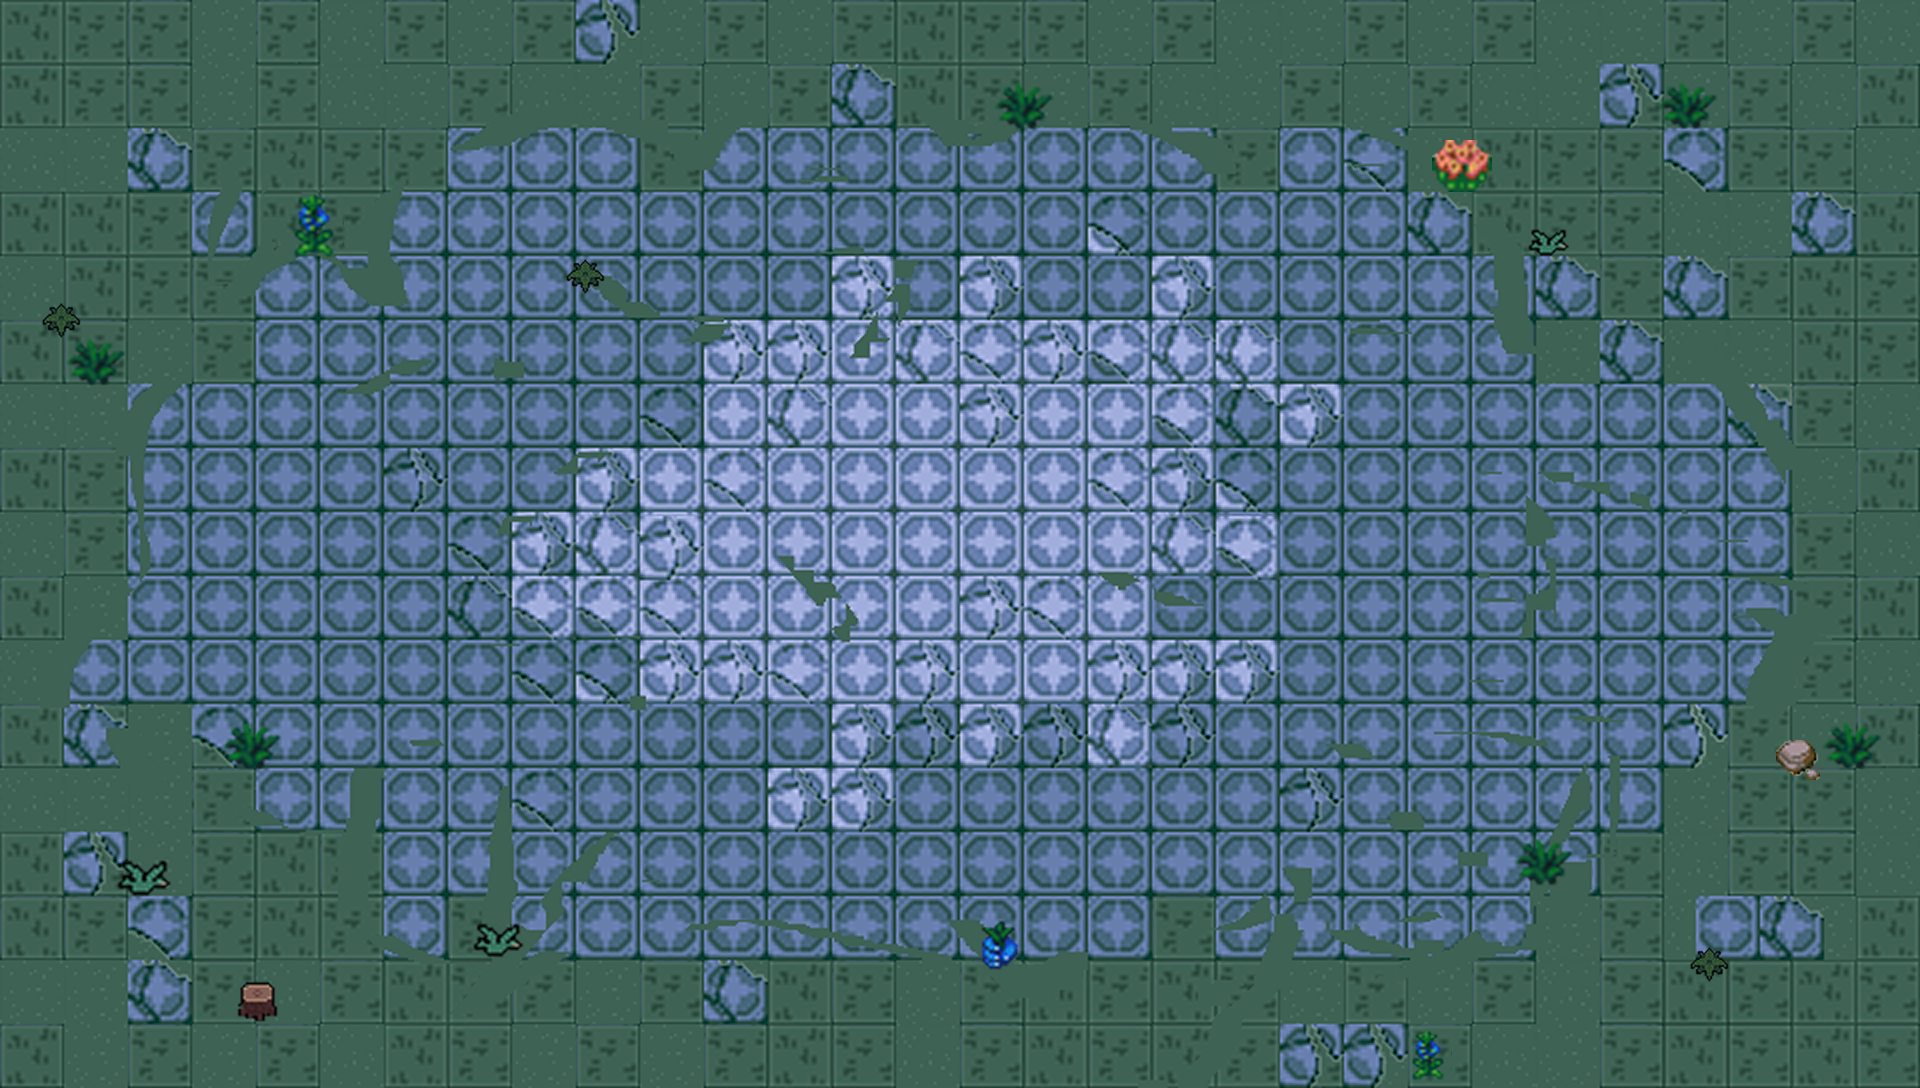
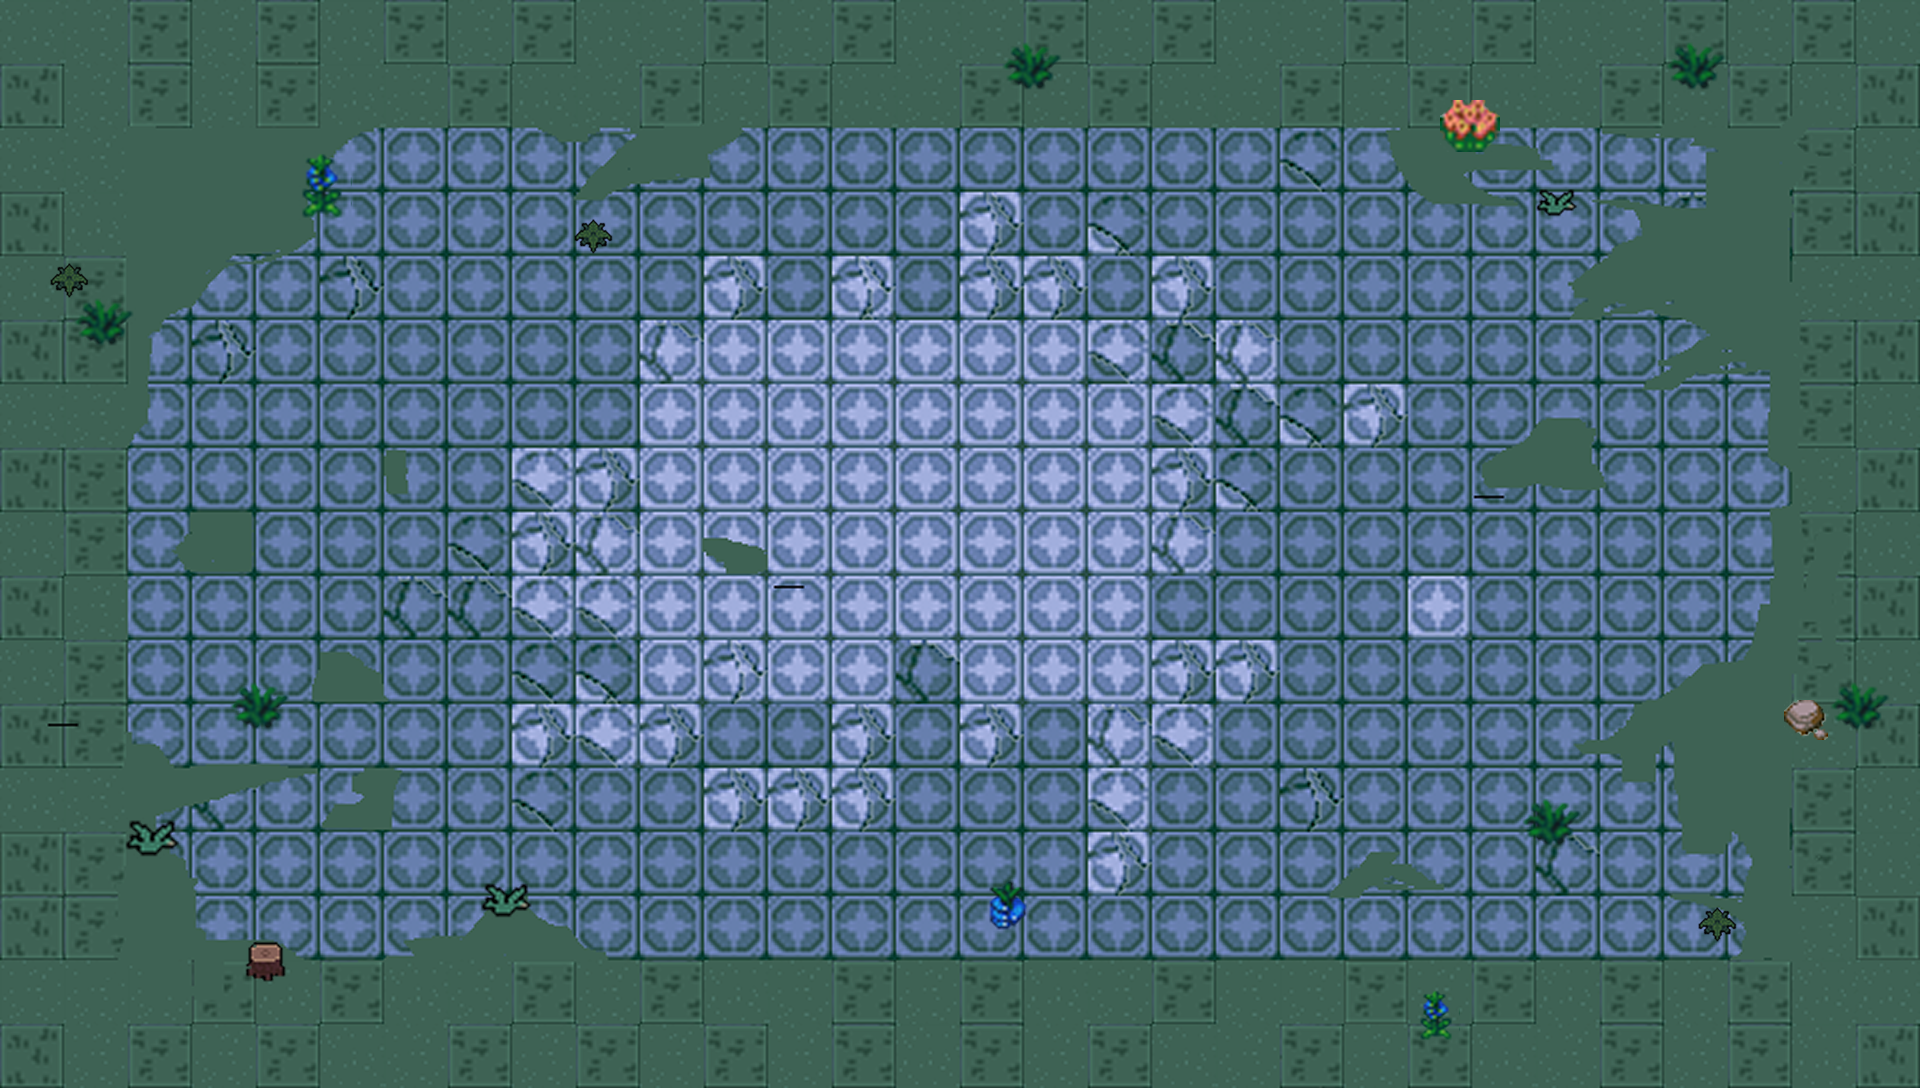
update

diff --git a/docs/Function.js b/docs/Function.js
@@ -6,8 +6,10 @@ let deathAnimations = []; // 追踪所有正在播放的死亡动画
 function handleGameplay(now) {
   if(wave<=5){
     image(level1map,0,0,1062,600);
-  } else if (wave>5 && wave <=10){
+  } else if (wave>5 && wave <= 10){
     image(level2map,0,0,1062,600);
+  } else if (wave>10 && wave <= 15){
+    image(level3map,0,0,1062,600);
   }
 
   // 玩家相关操作
@@ -50,7 +52,7 @@ function handleGameplay(now) {
     
     // 检查是否为已击败的Boss(包括BugBoss)
     if ((enemy.isBoss || enemy instanceof BugBoss) && enemy.health <= 0) {
-      bossesDefeated++;
+      bossDefeated++;
       enemies.splice(j, 1);
       bossActive = false; // 确保重置bossActive状态
       
@@ -290,10 +292,12 @@ function initButtons() {
 
   mainMenuButtons = [
     new Button(width / 2 - 75, baseY - 50, 150, 40, "Resume Game", () => {
+      buttonsound.play();
       loadSavedGame();
       gameState = "game"; // 从暂停改为直接进入游戏
     }),
     new Button(width / 2 - 75, baseY, 150, 40, "Start Game(easy)", () => {
+      buttonsound.play();
       savedGame = null;
       wave = 1; // 重置波数
       normalEnemiesDefeated = 0; // 重置击杀数
@@ -302,6 +306,7 @@ function initButtons() {
       difficult = "easy";
     }),
     new Button(width / 2 - 75, baseY + 50, 150, 40, "Start Game(hard)", () => {
+      buttonsound.play();
       savedGame = null;
       wave = 1; // 重置波数
       normalEnemiesDefeated = 0; // 重置击杀数
@@ -310,33 +315,40 @@ function initButtons() {
       difficult = "hard";
     }),
     new Button(width / 2 - 75, baseY + 100, 150, 40, "Setting", () => {
+      buttonsound.play();
       gameState = "setting";
     }),
-    new Button(width / 2 - 75, baseY + 150, 150, 40, "Quit Game", () =>
+    new Button(width / 2 - 75, baseY + 150, 150, 40, "Quit Game", () => {
+      buttonsound.play();
       noLoop()
-    ),
+}),
   ];
 
   charSelectButtons = [
-    new Button(width / 2 - 100, baseY - 30, 200, 40, "Gunner", () =>
+    new Button(width / 2 - 100, baseY - 30, 200, 40, "Gunner", () => {
+      buttonsound.play();
       initPlayer("gunner")
-    ),
+}),
     new Button(
       width / 2 - 100,
       baseY + 30,
       200,
       40,
       "Archer", // 间距从+20改为+30
-      () => initPlayer("archer")
-    ),
+      () => {
+        buttonsound.play();
+        initPlayer("archer")
+}),
     new Button(
       width / 2 - 100,
       baseY + 90,
       200,
       40,
       "Knight",
-      () => initPlayer("knight")
-    ),
+      () => {
+        buttonsound.play();
+        initPlayer("knight")
+}),
   ];
 
   pauseButtons = [
@@ -346,9 +358,12 @@ function initButtons() {
       150,
       40,
       "Resume Game",
-      () => (gameState = "game")
-    ),
+      () => {
+        buttonsound.play();
+        (gameState = "game")
+}),
     new Button(width / 2 - 75, baseY + 60, 150, 40, "Main Menu", () => {
+      buttonsound.play();
       savedGame = {
         ...savedGame,
         wave: wave, // 新增保存波数
@@ -514,6 +529,7 @@ function displaySettingPage() {
     backButton = createButton('Save and Return');
     backButton.position(width / 2 - 50, 300);
     backButton.mousePressed(() => {
+      buttonsound.play();
       gameState = 'mainMenu'; // 返回主菜单
       hideSettingsElements(); // 隐藏设置控件
     });
@@ -1493,9 +1509,11 @@ function displayVictoryScreen() {
 function setupVictoryButtons() {
   victoryButtons = [
     new Button(width / 2 - 120, height - 100, 100, 40, "Main Menu", () => {
+      buttonsound.play();
       gameState = "mainMenu";
     }),
     new Button(width / 2 + 20, height - 100, 100, 40, "Endless Mode", () => {
+      buttonsound.play();
       gameState = "game";
       wave = 11;
       spawnEnemiesForWave(wave);

diff --git a/docs/Main.js b/docs/Main.js
@@ -190,6 +190,7 @@ function preload() {
   // maps
   level1map = loadImage("./assets/selected_images/maps/level1.png");
   level2map = loadImage("./assets/selected_images/maps/level2.png");
+  level3map = loadImage("./assets/selected_images/maps/level3.png");
   // weather
   snowflakepic = loadImage("./assets/selected_images/weather/flake.gif");
   lightningpic = loadImage("./assets/selected_images/weather/lightning.gif");
@@ -288,6 +289,8 @@ function preload() {
 
 
   //sound相关
+  //UI声音
+  buttonsound = loadSound("./assets/candidate_sounds/ui_sound/buttonsound.ogg");
   //playerAttacksound
   arrowsound = loadSound("./assets/candidate_sounds/player_attack_sounds/arrow.ogg");
   gunsound = loadSound("./assets/candidate_sounds/player_attack_sounds/gun.ogg");
@@ -350,6 +353,7 @@ function draw() {
   gunsound.setVolume(volume);
   keyboardsound.setVolume(volume);
   thundersound.setVolume(volume);
+  buttonsound.setVolume(volume);
 
   switch (gameState) {
     case "mainMenu":
